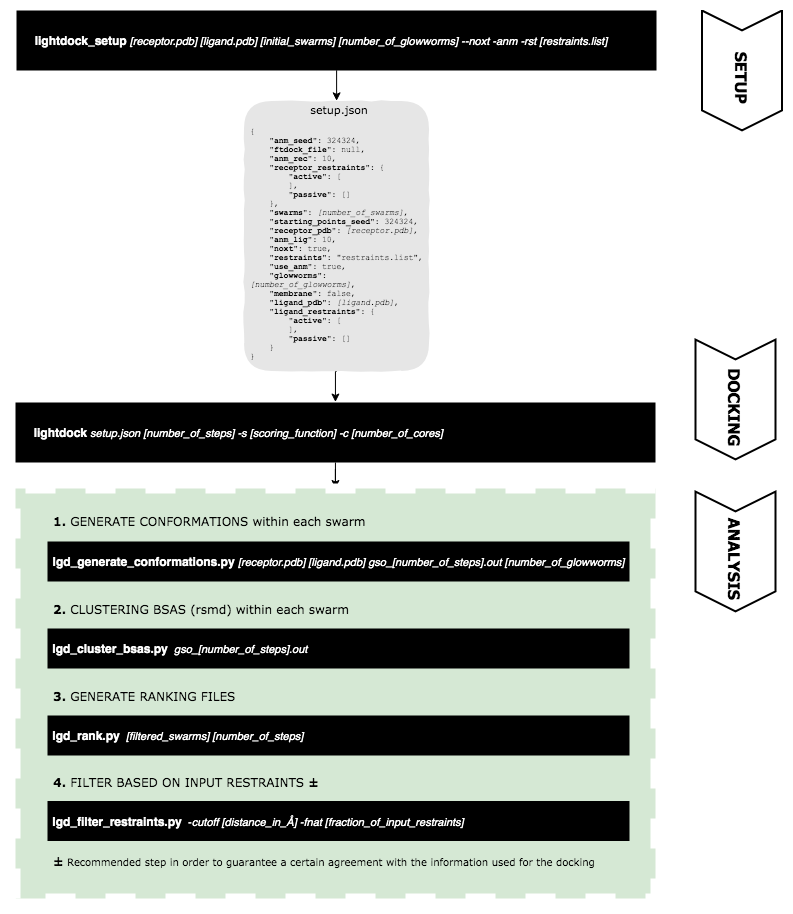
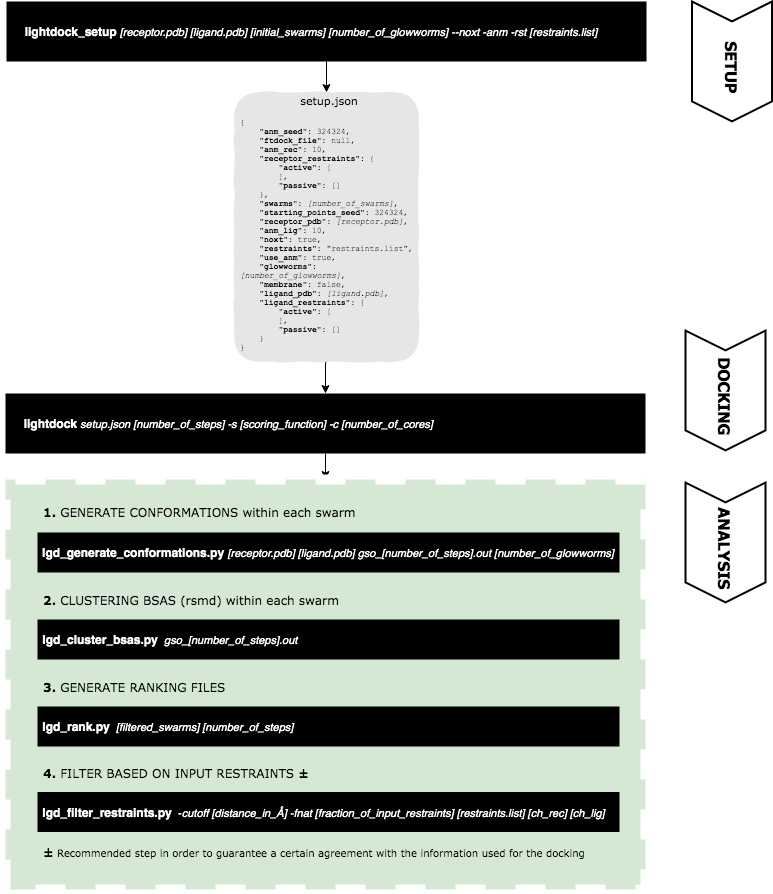
Figure corrected and README updated

diff --git a/README.md b/README.md
@@ -32,6 +32,8 @@ For the reported results, the following parameters were used:
 * `number_of_cores`: 48
 * `distance_in_Å`: 5.0
 * `fraction_of_input_restraints`: 0.4 (40%)
+* `ch_rec`: receptor chain id
+* `ch_lig`: ligand chain id
 
 
 ![LightDock-pipeline](media/LightDock-pipeline-corrected.png)
